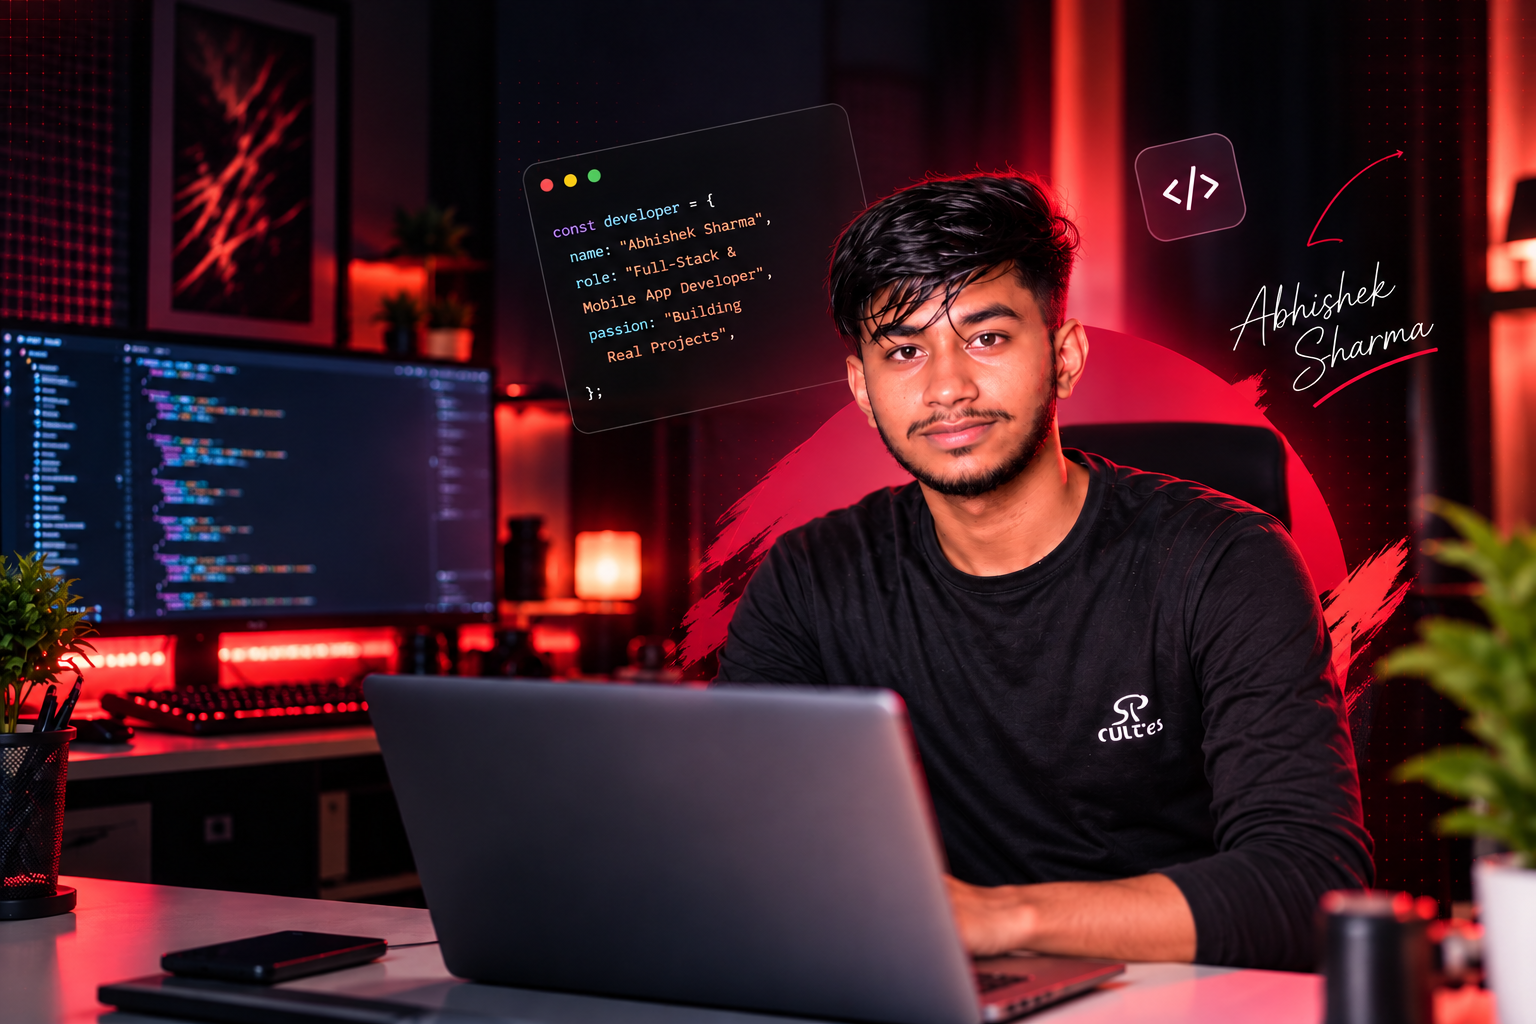
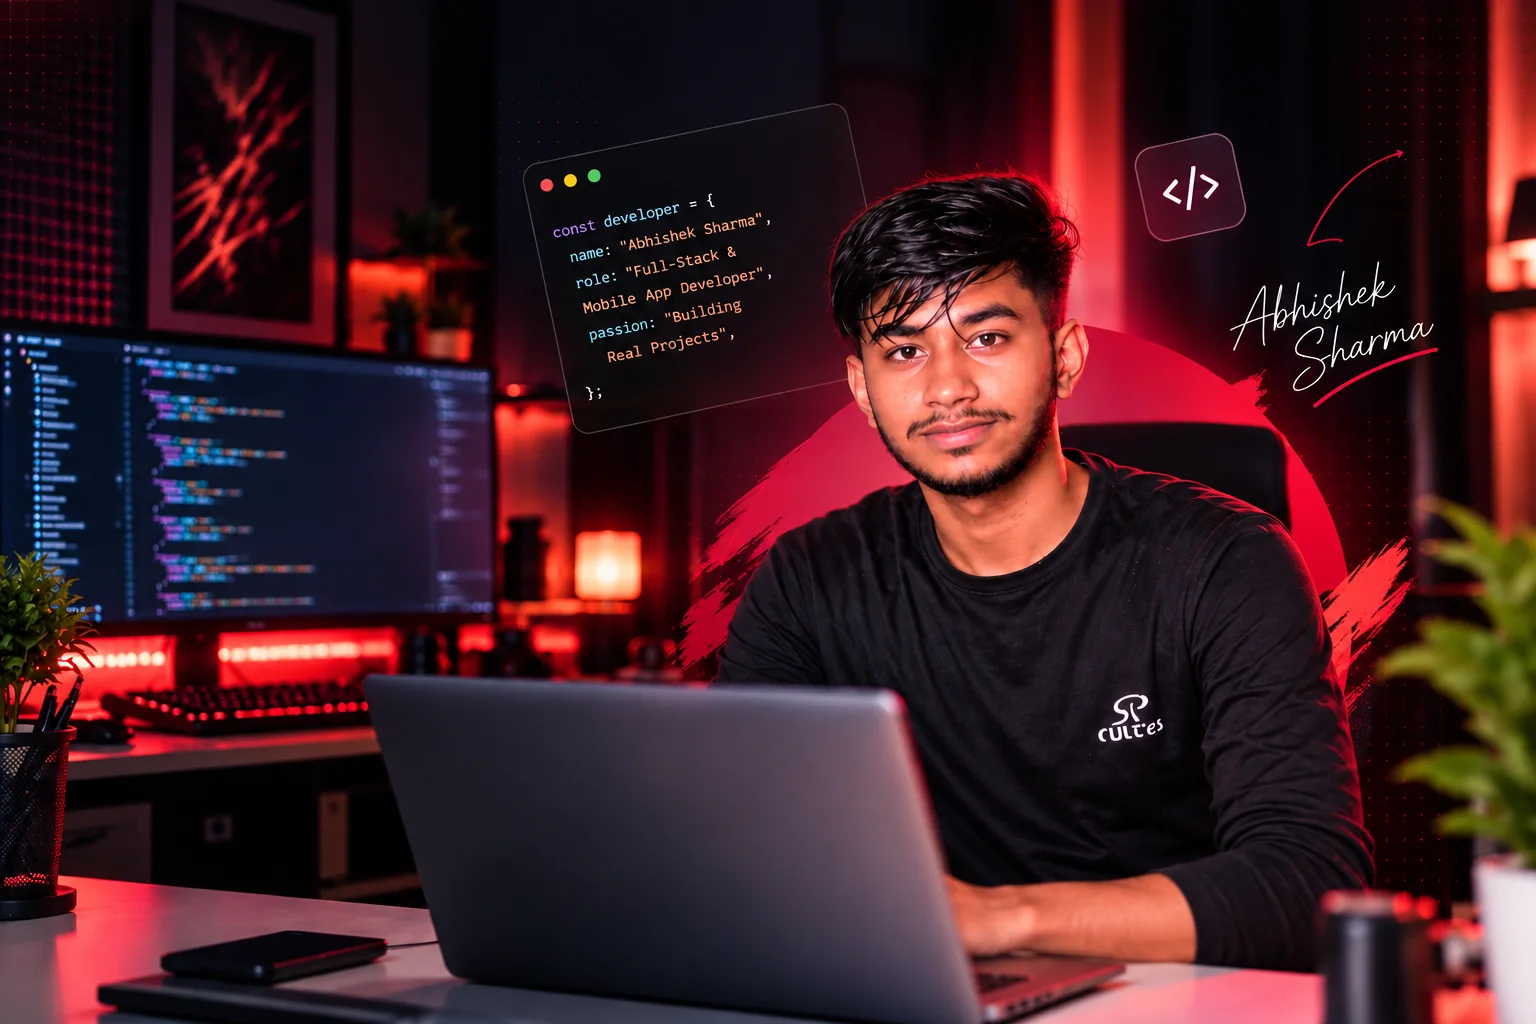
Enhance Link View

diff --git a/src/pages/ProjectDetails.tsx b/src/pages/ProjectDetails.tsx
@@ -34,11 +34,9 @@ export function ProjectDetails() {
               <p>{project.shortDescription}</p>
               <div className="project-stack">{project.technologies.map((technology) => <span key={technology}>{technology}</span>)}</div>
               <div className="project-actions project-detail-links">
-                {project.github
-                  ? <a className="button button-secondary" href={project.github} target="_blank" rel="noreferrer">GitHub UI ↗</a>
-                  : <span className="project-link-placeholder">GitHub URL not provided</span>}
-                {project.apiGithub && <a className="button button-secondary" href={project.apiGithub} target="_blank" rel="noreferrer">GitHub API ↗</a>}
-                {project.liveDemo && <a className="button button-primary" href={project.liveDemo} target="_blank" rel="noreferrer">Live demo ↗</a>}
+                {project.github && <a className="button button-secondary" href={project.github} target="_blank" rel="noopener noreferrer">GitHub UI ↗</a>}
+                {project.apiGithub && <a className="button button-secondary" href={project.apiGithub} target="_blank" rel="noopener noreferrer">GitHub API ↗</a>}
+                {project.liveDemo && <a className="button button-primary" href={project.liveDemo} target="_blank" rel="noopener noreferrer">Live demo ↗</a>}
               </div>
             </div>
             <div className="project-detail-preview project-visual">

diff --git a/src/components/projects/ProjectCard.tsx b/src/components/projects/ProjectCard.tsx
@@ -25,11 +25,9 @@ export function ProjectCard({ project, index }: { project: Project; index: numbe
           >
             View Details <span aria-hidden="true">↗</span>
           </Link>
-          {project.github
-            ? <a className="project-link-placeholder" href={project.github} target="_blank" rel="noreferrer">GitHub UI ↗</a>
-            : <span className="project-link-placeholder">GitHub link not provided</span>}
-          {project.apiGithub && <a className="project-link-placeholder" href={project.apiGithub} target="_blank" rel="noreferrer">GitHub API ↗</a>}
-          {project.liveDemo && <a className="project-link-placeholder" href={project.liveDemo} target="_blank" rel="noreferrer">Live demo ↗</a>}
+          {project.github && <a className="project-link-placeholder" href={project.github} target="_blank" rel="noopener noreferrer">GitHub UI ↗</a>}
+          {project.apiGithub && <a className="project-link-placeholder" href={project.apiGithub} target="_blank" rel="noopener noreferrer">GitHub API ↗</a>}
+          {project.liveDemo && <a className="project-link-placeholder" href={project.liveDemo} target="_blank" rel="noopener noreferrer">Live demo ↗</a>}
         </div>
       </div>
     </article>

diff --git a/src/App.tsx b/src/App.tsx
@@ -1,6 +1,6 @@
 import { useEffect, useState, type FormEvent, type ReactNode } from 'react'
 import { Route, Routes, useLocation } from 'react-router-dom'
-import heroPhoto from './assets/images/profile/developer-hero.png'
+import heroPhoto from './assets/images/profile/developer-hero.webp'
 import { Icon } from './components/ui/Icon'
 import { ProjectsSection } from './components/projects/ProjectsSection'
 import { ProjectDetails } from './pages/ProjectDetails'

diff --git a/src/App.css b/src/App.css
@@ -1072,12 +1072,17 @@
 .project-actions {
   align-items: center;
   display: flex;
-  gap: 17px;
+  flex-wrap: wrap;
+  gap: 12px 17px;
   margin-top: 20px;
 }
 .project-link-placeholder {
-  color: #716c76;
-  font-size: 9px;
+  color: #aaa4af;
+  font-size: 10px;
+  transition: color 0.2s;
+}
+.project-link-placeholder:hover {
+  color: #ff7b8e;
 }
 .education {
   background: linear-gradient(

diff --git a/src/data/projects.ts b/src/data/projects.ts
@@ -122,7 +122,7 @@ export const projects: Project[] = [
     preview: 'movie',
     github: null,
     apiGithub: null,
-    liveDemo: null,
+    liveDemo: 'https://movie-hub-y2q3.onrender.com/',
     type: 'Mobile',
     categories: ['Mobile'],
     purpose:
